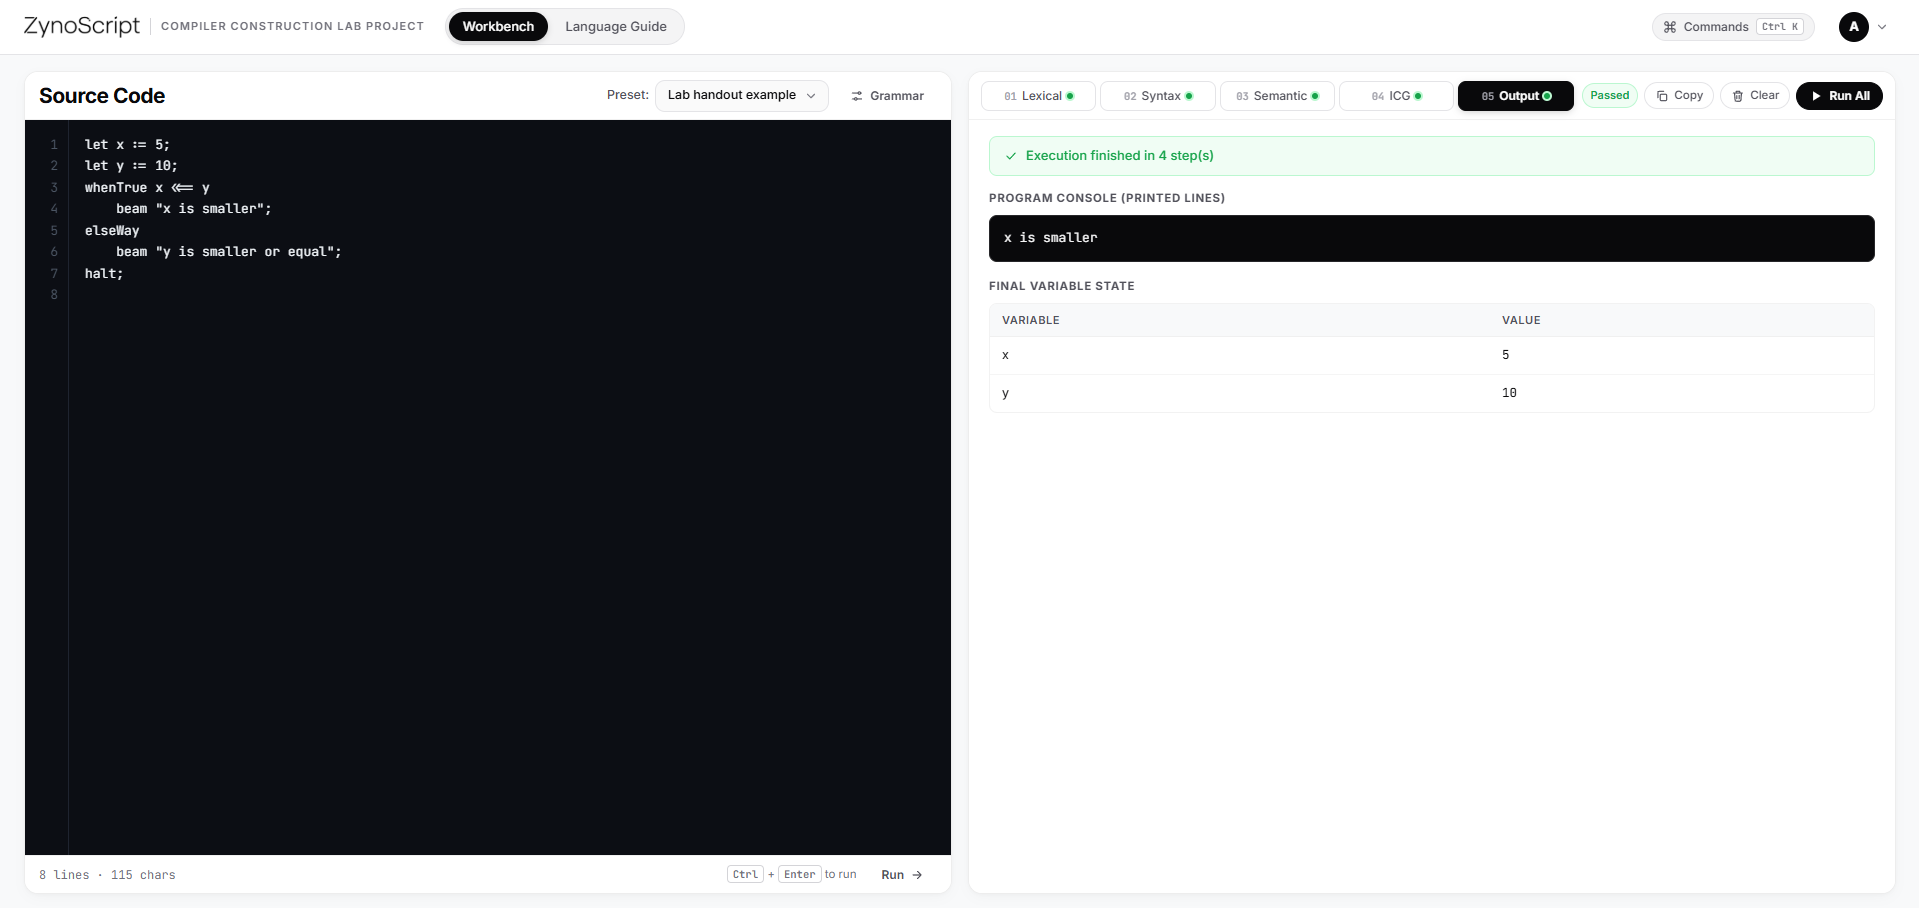
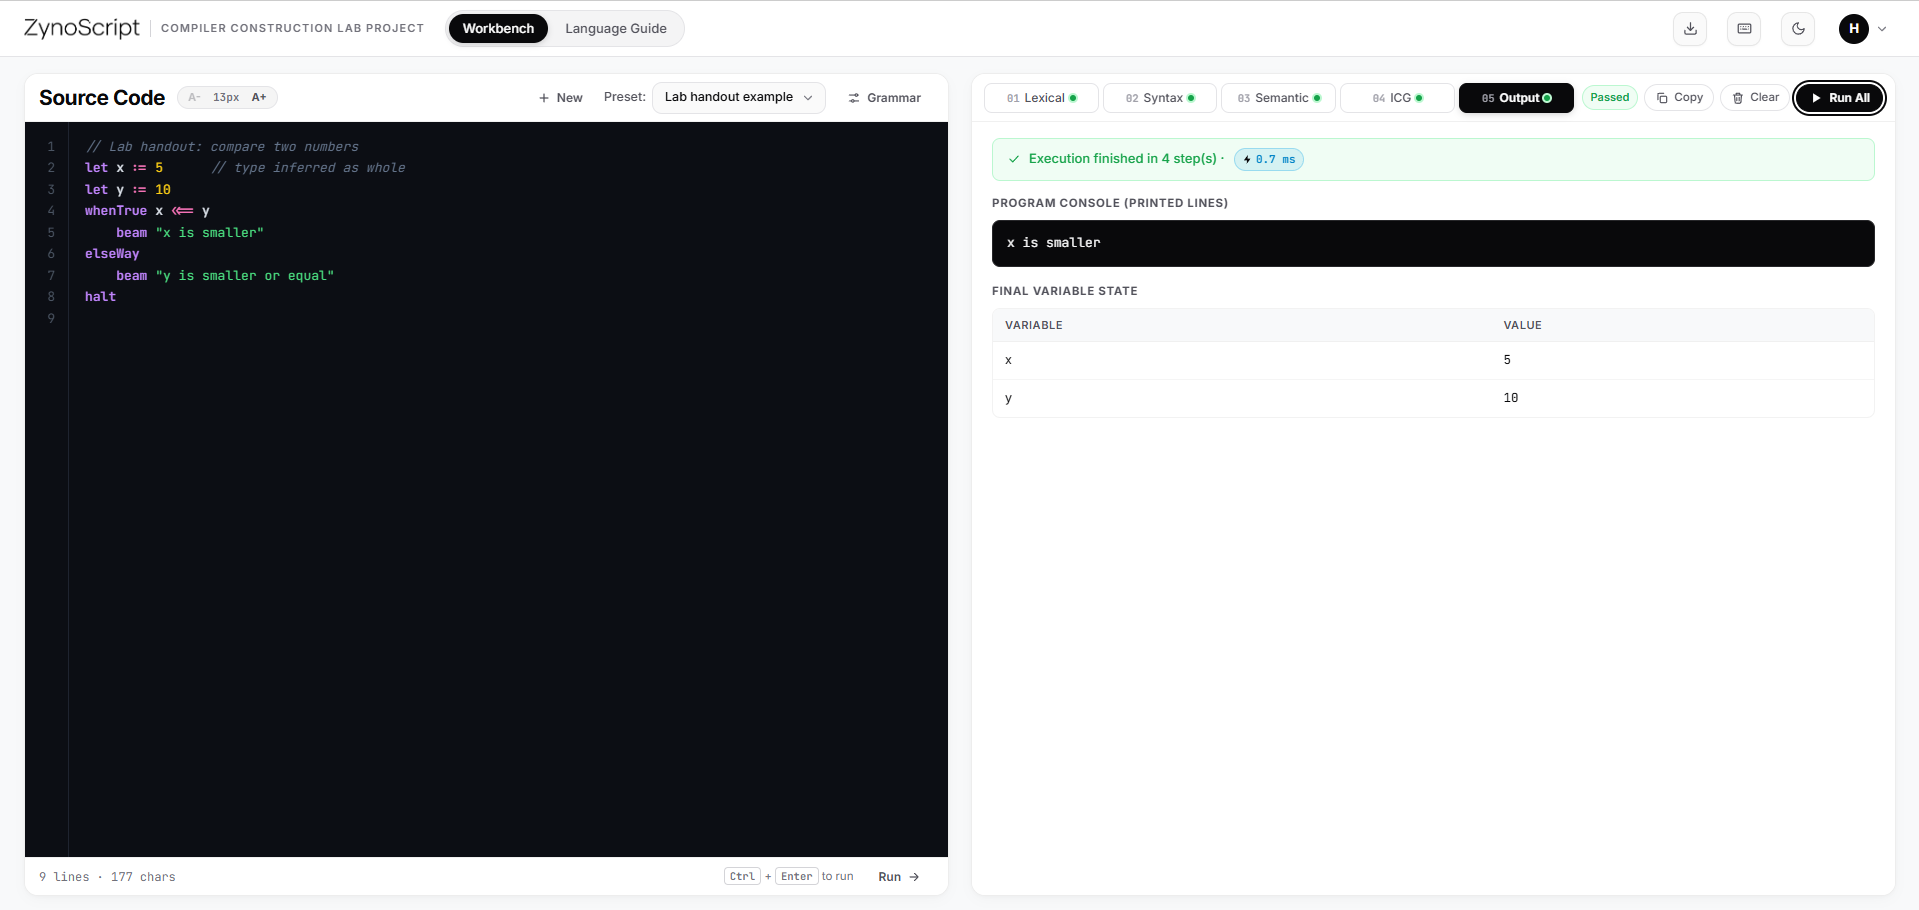
Update README and assets screenshots, refine custom program error handling and language guide

diff --git a/public/js/app.js b/public/js/app.js
@@ -2420,12 +2420,37 @@ code.addEventListener("keydown", (e) => {
   updateGutter();
 });
 
+const CUSTOM_PROGRAM_NAME = "Custom program";
 const sample = $("#sample");
-sample.innerHTML = Object.keys(SAMPLES).map((k) => `<option>${esc(k)}</option>`).join("");
+const uniqueSampleKeys = Array.from(new Set(Object.keys(SAMPLES)));
+sample.innerHTML = uniqueSampleKeys.map((k) => `<option>${esc(k)}</option>`).join("");
 enhanceSelect(sample);
 
+function clearOutputPanel() {
+  resetStates();
+  state.lastResults = null;
+  activeErrorLines.clear();
+  renderGutterNow(true);
+  const outTitle = $("#out-title");
+  const outStatus = $("#out-status");
+  const outputEl = $("#output");
+  const clearBtn = $("#btn-clear-output");
+  const copyBtn = $("#btn-copy-output");
+  if (outTitle) outTitle.textContent = "Compiler Output";
+  if (outStatus) outStatus.hidden = true;
+  if (clearBtn) clearBtn.hidden = true;
+  if (copyBtn) copyBtn.hidden = true;
+  if (outputEl) {
+    outputEl.innerHTML = `<div class="empty-state out-anim">
+      <div class="empty-glyph">${typeof icon === "function" ? icon("braces") : ""}</div>
+      <p>Pick a compiler stage above or hit <b>Run All</b> to analyze and run your code.</p>
+    </div>`;
+  }
+}
+
 function startNewCustomProgram() {
-  sample.value = "Custom program";
+  // Enforce single custom program slot at all times
+  sample.value = CUSTOM_PROGRAM_NAME;
   if (sample._enhanced && typeof sample._enhanced.syncValue === "function") {
     sample._enhanced.syncValue();
   }
@@ -2433,12 +2458,10 @@ function startNewCustomProgram() {
   try {
     localStorage.setItem("zs_custom_code", "");
     localStorage.setItem("zs_autosave_code", "");
-    localStorage.setItem("zs_autosave_sample", "Custom program");
+    localStorage.setItem("zs_autosave_sample", CUSTOM_PROGRAM_NAME);
   } catch {}
-  activeErrorLines.clear();
-  renderGutterNow(true);
+  clearOutputPanel();
   updateGutter();
-  resetStates();
   if (document.activeElement && document.activeElement !== code && typeof document.activeElement.blur === "function") {
     document.activeElement.blur();
   }
@@ -2456,34 +2479,32 @@ if (btnNewProgram) {
 }
 
 sample.addEventListener("change", () => {
-  if (sample.value === "Custom program") {
+  if (sample.value === CUSTOM_PROGRAM_NAME) {
     const savedCustom = localStorage.getItem("zs_custom_code");
     code.value = savedCustom !== null ? savedCustom : "";
   } else {
     code.value = SAMPLES[sample.value];
   }
-  activeErrorLines.clear();
-  renderGutterNow(true);
+  clearOutputPanel();
   updateGutter();
-  resetStates();
   toast(`Loaded "${sample.value}"`);
 });
 
 // Restore autosaved code or default sample
 (function initEditorContent() {
-  const PRESET_VERSION = "8.0";
+  const PRESET_VERSION = "8.1";
   const storedVersion = localStorage.getItem("zs_version");
   const savedSample = localStorage.getItem("zs_autosave_sample");
   const savedCode = localStorage.getItem("zs_autosave_code");
   const savedCustom = localStorage.getItem("zs_custom_code");
 
   if (storedVersion !== PRESET_VERSION) {
-    // Migrate to version 8.0: bust stale autosaved code and load clean preset
+    // Migrate to version 8.1: bust stale autosaved code and load clean preset
     localStorage.setItem("zs_version", PRESET_VERSION);
     if (savedSample && SAMPLES[savedSample]) {
       sample.value = savedSample;
     }
-    if (sample.value === "Custom program") {
+    if (sample.value === CUSTOM_PROGRAM_NAME) {
       code.value = savedCustom !== null ? savedCustom : "";
     } else {
       code.value = SAMPLES[sample.value];
@@ -2493,7 +2514,7 @@ sample.addEventListener("change", () => {
     if (savedSample && SAMPLES[savedSample]) {
       sample.value = savedSample;
     }
-    if (sample.value === "Custom program") {
+    if (sample.value === CUSTOM_PROGRAM_NAME) {
       code.value = savedCode !== null ? savedCode : (savedCustom !== null ? savedCustom : "");
     } else {
       code.value = (savedCode && savedCode.trim().length > 0) ? savedCode : SAMPLES[sample.value];
@@ -2541,6 +2562,32 @@ async function runStage(stage) {
   state.selected = stage;
   $$(".stage").forEach((b) => b.classList.toggle("is-selected", b.dataset.stage === stage));
   resetStates();
+  if (!code.value || !code.value.trim()) {
+    setState(stage, "err");
+    const emptyErr = [{
+      line: 1,
+      col: 1,
+      message: "Source editor is empty — write ZynoScript statements ending with 'halt' before running."
+    }];
+    setEditorErrors(emptyErr);
+    const outTitle = $("#out-title");
+    const badge = $("#out-status");
+    const outputEl = $("#output");
+    if (outTitle) outTitle.textContent = STAGE_TITLE[stage];
+    if (badge) {
+      badge.hidden = false;
+      badge.className = "badge bad";
+      badge.textContent = "1 error";
+    }
+    if (outputEl) {
+      outputEl.innerHTML = `<div class="out-anim"><h3>Empty Program</h3>${errorList(emptyErr)}</div>`;
+      $$("button[data-line]", outputEl).forEach((b) => b.addEventListener("click", () => jumpToLine(+b.dataset.line)));
+    }
+    if (typeof btnCopyOutput !== "undefined" && btnCopyOutput) btnCopyOutput.hidden = false;
+    if (typeof btnClearOutput !== "undefined" && btnClearOutput) btnClearOutput.hidden = false;
+    toast("Editor is empty — write ZynoScript code before running");
+    return;
+  }
   const upto = STAGES.indexOf(stage);
   STAGES.forEach((s, i) => {
     if (i <= upto) setState(s, "running");
@@ -2954,6 +3001,7 @@ function renderGuide() {
   $("#gd-halt").textContent = `${k.HALT}`;
   $("#gd-decl1").textContent = `${k.LET} ${k.INT} a ${o.ASSIGN} 5`;
   $("#gd-decl2").textContent = `${k.LET} x ${o.ASSIGN} 5`;
+  if ($("#gd-neg")) $("#gd-neg").textContent = `${o.SUB || "-~"}`;
   if ($("#gd-cast")) $("#gd-cast").textContent = `x ${o.CAST || "as~"} ${k.INT}`;
 }
 
@@ -4063,6 +4111,9 @@ function generateLabReport() {
 }
 
 function exportLabReport() {
+  if (!code.value || !code.value.trim()) {
+    return toast("Editor is empty — write ZynoScript code before exporting a lab report");
+  }
   const md = generateLabReport();
   const sampleName = (sample.value || "zynoscript_program").toLowerCase().replace(/[^a-z0-9_-]+/g, "_");
   const filename = `${sampleName}_lab_report.md`;

diff --git a/public/index.html b/public/index.html
@@ -9,7 +9,7 @@
   <link rel="preconnect" href="https://fonts.gstatic.com" crossorigin>
   <link rel="preload" as="style" href="https://fonts.googleapis.com/css2?family=Inter:wght@400;500;600;700;800&family=JetBrains+Mono:wght@400;500;600&display=swap">
   <link href="https://fonts.googleapis.com/css2?family=Inter:wght@400;500;600;700;800&family=JetBrains+Mono:wght@400;500;600&display=swap" rel="stylesheet">
-  <link rel="stylesheet" href="css/style.css?v=8.0">
+  <link rel="stylesheet" href="css/style.css?v=8.1">
   <script>
     const hasAuthToken = localStorage.getItem("zs_token") || sessionStorage.getItem("zs_token");
     if (!hasAuthToken) {
@@ -323,6 +323,7 @@
               <li>Every complete program concludes with <code id="gd-halt">halt</code></li>
               <li>Variables can be explicitly typed: <code id="gd-decl1">let whole a := 5</code></li>
               <li>Variables can also be inferred from values: <code id="gd-decl2">let x := 5</code></li>
+              <li>Unary negation uses <code id="gd-neg">-~</code> before numeric values: <code>let whole n := -~ 5</code></li>
               <li>Conditional statements support optional parentheses around conditions: <code>whenTrue x &lt;&lt;= y</code></li>
               <li>Single statements can be written with or without enclosing braces <code>{ }</code></li>
               <li>Explicit type casting uses <code id="gd-cast">x as~ whole</code> (converts between <code>whole</code>, <code>part</code>, <code>phrase</code>, <code>flag</code>, and <code>mark</code>).</li>
@@ -635,9 +636,9 @@ let flag ok := 1 as~ flag              // 1 -> true</pre>
   <div id="toast" class="toast" role="status" hidden></div>
 
   <!-- Scripts -->
-  <script defer src="js/icons.js?v=8.0"></script>
-  <script defer src="js/samples.js?v=8.0"></script>
-  <script defer src="js/api.js?v=8.0"></script>
-  <script defer src="js/app.js?v=8.0"></script>
+  <script defer src="js/icons.js?v=8.1"></script>
+  <script defer src="js/samples.js?v=8.1"></script>
+  <script defer src="js/api.js?v=8.1"></script>
+  <script defer src="js/app.js?v=8.1"></script>
 </body>
 </html>

diff --git a/app/engines/grammar.py b/app/engines/grammar.py
@@ -128,6 +128,6 @@ arith      -> term {{ ('{o['ADD']}' | '{o['SUB']}') term }}
 term       -> cast_expr {{ ('{o['MUL']}' | '{o['DIV']}') cast_expr }}
 cast_expr  -> factor {{ '{cast_op}' type }}                 (explicit type cast, e.g. x {cast_op} {k['INT']})
 factor     -> NUM | DEC | STR | CHR | '{k['TRUE']}' | '{k['FALSE']}' | ID
-            | '(' expr ')' | '{o['NOT']}' factor
+            | '(' expr ')' | '{o['NOT']}' factor | '{o['SUB']}' factor
 comment    -> '//' any text to end of line            (single-line comment, ignored)
             | '/~~' any text across lines '~~/'       (multi-line block comment, ignored)"""

diff --git a/README.md b/README.md
@@ -95,7 +95,7 @@ Every stage lives in [`app/engines/`](app/engines/) as an independent pure Pytho
 | **02. Syntax** | `syntax.py` | Checks grammar rules and builds the program structure | Abstract Syntax Tree (JSON & ASCII tree) |
 | **03. Semantic** | `semantic.py` | Validates variable declarations, scopes, and data types | Symbol Table, scope hierarchy, type verification |
 | **04. ICG** | `icg.py` | Translates the tree into simple, step-by-step intermediate code | Three-Address Code (TAC), Quadruple table |
-| **05. VM Runtime** | `output.py` | Executes the intermediate instructions | Console output, runtime variables, steps executed |
+| **05. VM Runtime** | `output.py` | Executes the intermediate instructions | Console output, runtime variables, steps executed, execution latency (`ms`) |
 
 ---
 
@@ -105,9 +105,10 @@ Every valid ZynoScript program must conclude with `halt`:
 
 ```zynoscript
 /~~ ZynoScript Example:
-    Demonstrates loops, branching, comments, and explicit type casting (as~). ~~/
+    Demonstrates loops, branching, unary negation, comments, and explicit type casting (as~). ~~/
 let whole counter := 1
 let whole maxLimit := 5
+let whole offset := -~ 10
 
 spin (counter <<= maxLimit) {
     whenTrue (counter ~= 3) {
@@ -118,12 +119,14 @@ spin (counter <<= maxLimit) {
     counter := counter +~ 1
 }
 
+beam "Offset: " +~ (offset as~ phrase)
 beam "Execution complete."
 halt
 ```
 
 * **Data Types:** `whole` (int), `part` (float), `phrase` (str), `flag` (bool), `mark` (char)
 * **Explicit Type Casting (`as~`):** `x as~ whole`, `x as~ part`, `x as~ phrase`, `x as~ flag`, `x as~ mark` (customizable via the `CAST` operator role)
+* **Unary Negation (`-~`):** Negates numeric (`whole` and `part`) expressions, e.g. `let whole a := -~ 5`, `beam -~ (a +~ 2)`
 * **Comments:** Single-line `// ...` and multi-line block comments `/~~ ... ~~/`
 * **Conditions & Loops:** `whenTrue (condition) { ... } elseWay { ... }`, `spin (condition) { ... }`
 * **Operators:** `+~` (Math & `phrase` concatenation), `-~`, `*~`, `/~` | `=>>`, `<<=`, `~=`, `~!` (Comparison) | `&&~`, `||~`, `!~` (Logical)
@@ -134,11 +137,15 @@ halt
 ## ✨ Studio Workbench Highlights
 
 * **Light & Dark Mode Theme Toggle:** Switch seamlessly between crisp **Light Mode** and full-studio **Dark Mode** (`html[data-theme="dark"]`) from the top navigation bar, persisted automatically in `localStorage`.
+* **Custom Program Canvas (`+ New`) & Autosave:** Start a blank custom program directly from the editor header (`+ New` button or `"Custom program"` preset) to write code from scratch, with automatic draft persistence in `localStorage`.
+* **Editor Font Zoom Controls (`A-` / `A+`):** Adjust source editor font size (`13px` to `18px`) directly from the editor header bar for comfortable reading and classroom projector displays.
+* **One-Click Lab Report Export:** Download a formatted Markdown report from the top navigation bar containing the source program, token stream (Stage 01), ASCII syntax tree (Stage 02), verified symbol table (Stage 03), Three-Address Code & quadruple table (Stage 04), and program output (Stage 05).
+* **Execution Latency Telemetry Badge:** Stage 05 displays real-time execution latency (`ms`) alongside instruction step counts.
 * **Live Custom-Grammar Syntax Highlighting:** Colorizes keywords, data types, booleans, operators, numbers, strings, and comments in real time—automatically adapting when you rename any keyword or operator in the Grammar Drawer.
-* **Shortcuts & Quick Actions Hub (`?`):** One-click topbar modal combining keyboard shortcut references (`Ctrl+Enter`, `Ctrl+K`, `Tab`, `?`, `Esc`), mouse tips, and instant studio triggers.
+* **Shortcuts & Quick Actions Hub (`?` & `Ctrl+K`):** One-click topbar modal and command palette combining keyboard shortcut references (`Ctrl+Enter`, `Ctrl+K`, `Tab`, `?`, `Esc`), mouse tips, and instant studio triggers.
 * **Inline Error Diagnostics & Gutter Jump:** Highlights offending lines in the editor gutter and displays clean diagnostic rows that jump straight to the exact source line on click.
 * **Resizable Desktop Split & Mobile Workbench Tabs:** Drag the center divider on desktop to resize the editor/output split (double-click to reset 50/50), or switch cleanly between `Code Editor` and `Compiler Output` tabs on mobile screens.
-* **26 Built-In Preset Programs:** Includes **22 working programs** (star pyramids, diamond patterns, prime checker, palindrome, FizzBuzz, Euclidean GCD/LCM, Collatz `3n+1`, binary converter, ASCII Caesar cipher, type casting, and grade calculator) plus **4 dedicated stage error presets** (`Lexical errors`, `Syntax error: incomplete statement`, `Semantic errors`, and `Runtime error: division by zero`).
+* **Built-In Preset Programs:** Includes working algorithm presets (star pyramids, diamond patterns, prime checker, palindrome, FizzBuzz, Euclidean GCD/LCM, Collatz `3n+1`, binary converter, ASCII Caesar cipher, type casting, and grade calculator), a dedicated custom program workspace, and 4 stage error presets (`Lexical errors`, `Syntax error: incomplete statement`, `Semantic errors`, and `Runtime error: division by zero`).
 
 ---
 
@@ -220,7 +227,7 @@ This repository includes [`vercel.json`](vercel.json) ready for deployment with 
 
 ## 🧪 Running the Test Suite
 
-Run the automated integration, parity, and unit test suite (**48 tests** covering all 5 compiler engines, browser-vs-server compiler parity across all 26 presets, `as~` type casting, `/~~ ... ~~/` block comments, authentication, rate limiting, and permission boundaries):
+Run the automated integration, parity, and unit test suite (**55 tests** covering all 5 compiler engines, browser-vs-server compiler parity across all presets, unary negation (`-~`), `as~` type casting, `/~~ ... ~~/` block comments, authentication, rate limiting, and permission boundaries):
 
 ```bash
 python -m unittest discover tests
@@ -250,7 +257,7 @@ zynoscript-compiler/
 ├── api/
 │   └── index.py                 # Vercel serverless function entry point
 ├── public/                      # Static studio frontend (HTML, CSS, JS, Assets)
-├── tests/                       # 40 automated unit & integration tests
+├── tests/                       # 55 automated unit & integration tests
 ├── data/                        # Local SQLite database directory
 ├── .env.example                 # Configuration template
 ├── vercel.json                  # Vercel routing configuration
